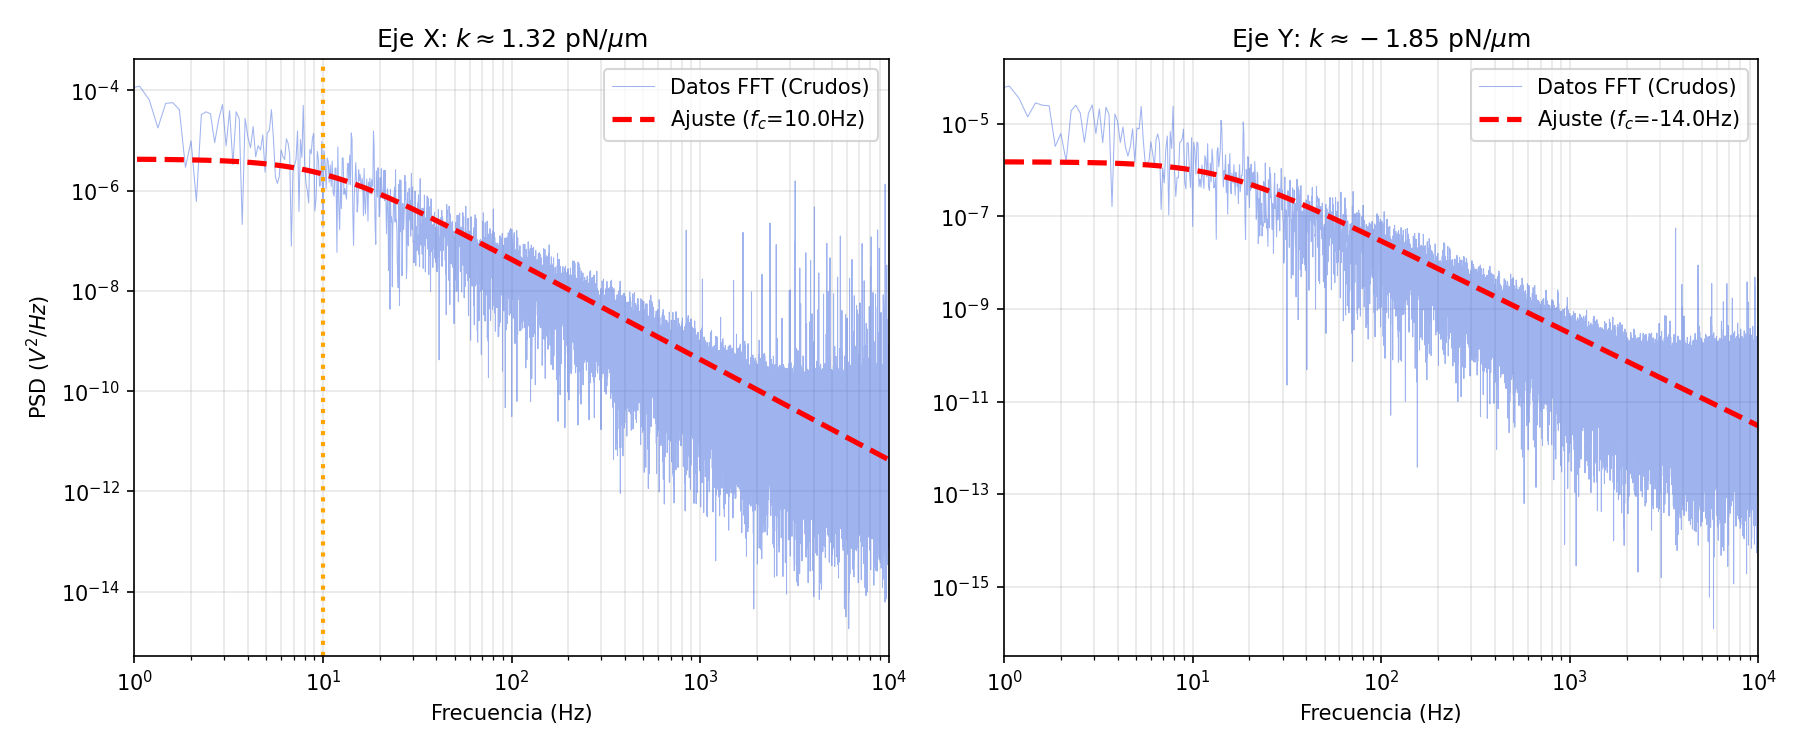
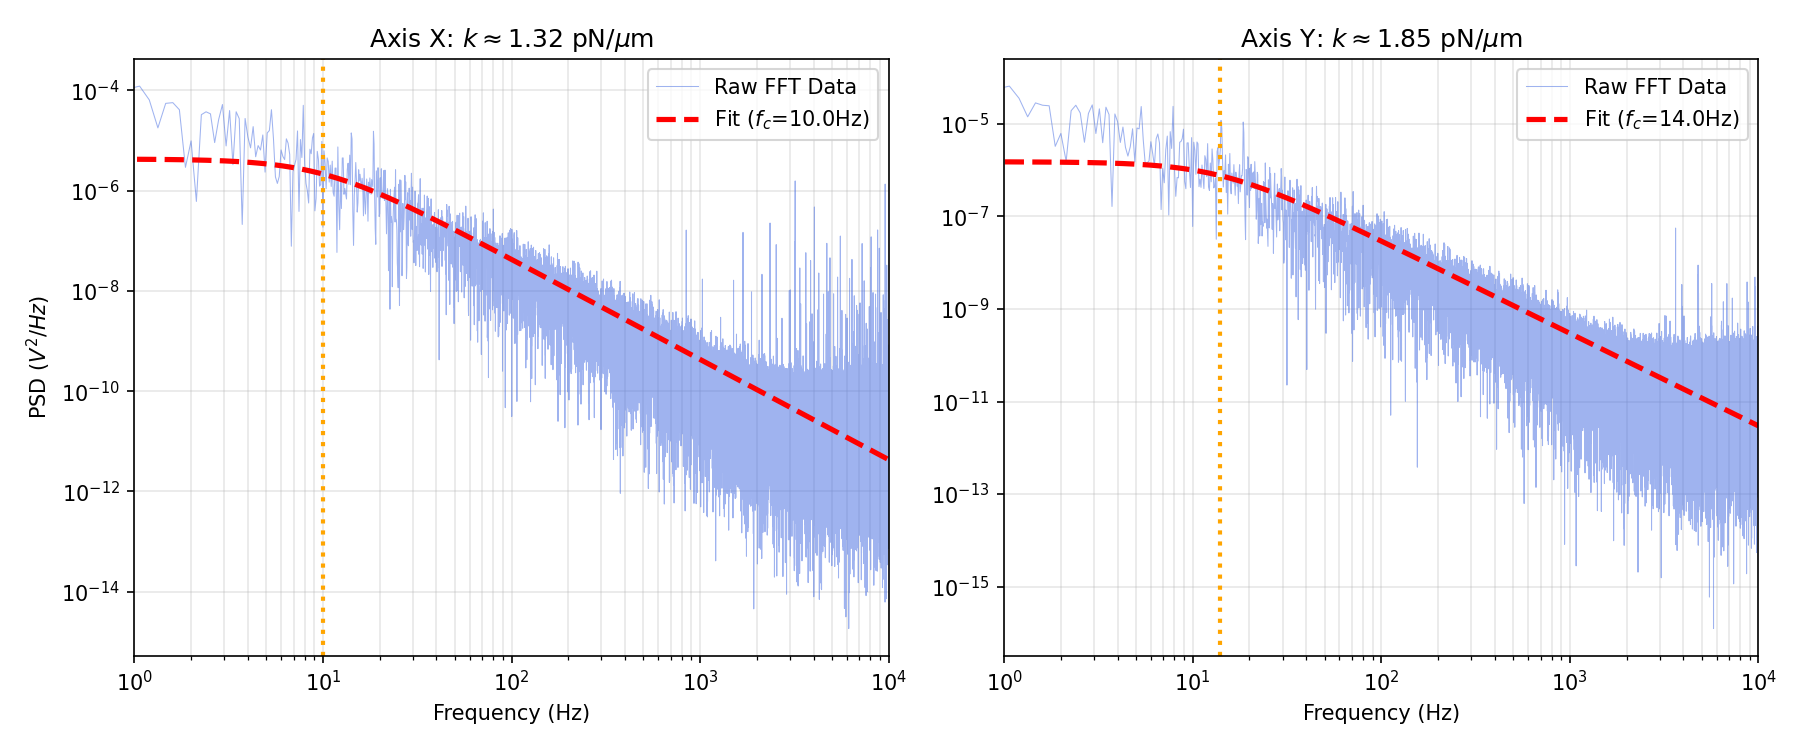
Last Stable Version

diff --git a/visualizacion/visor_experimental.py b/visualizacion/visor_experimental.py
@@ -49,7 +49,8 @@ class ExperimentalViewer(ttk.Frame):
         
         # Llamamos a la función principal del script de cálculo
         # Esta función carga los archivos, calcula el PSD y guarda la imagen
-        resultado = procesador.procesar_y_guardar()
+        # CORRECTED: The function in procesamiento_experimental.py is named 'process_and_save'
+        resultado = procesador.process_and_save()
         
         if 'error' in resultado:
             messagebox.showerror("Error de Datos", 

diff --git a/visualizacion/animacion_transferencia.py b/visualizacion/animacion_transferencia.py
@@ -1,9 +1,3 @@
-"""
-Animación de la Función de Transferencia (PSD).
-Muestra cómo el ruido térmico converge a la curva Lorentziana teórica
-conforme pasa el tiempo.
-"""
-
 import numpy as np
 import matplotlib.pyplot as plt
 import matplotlib.animation as animation
